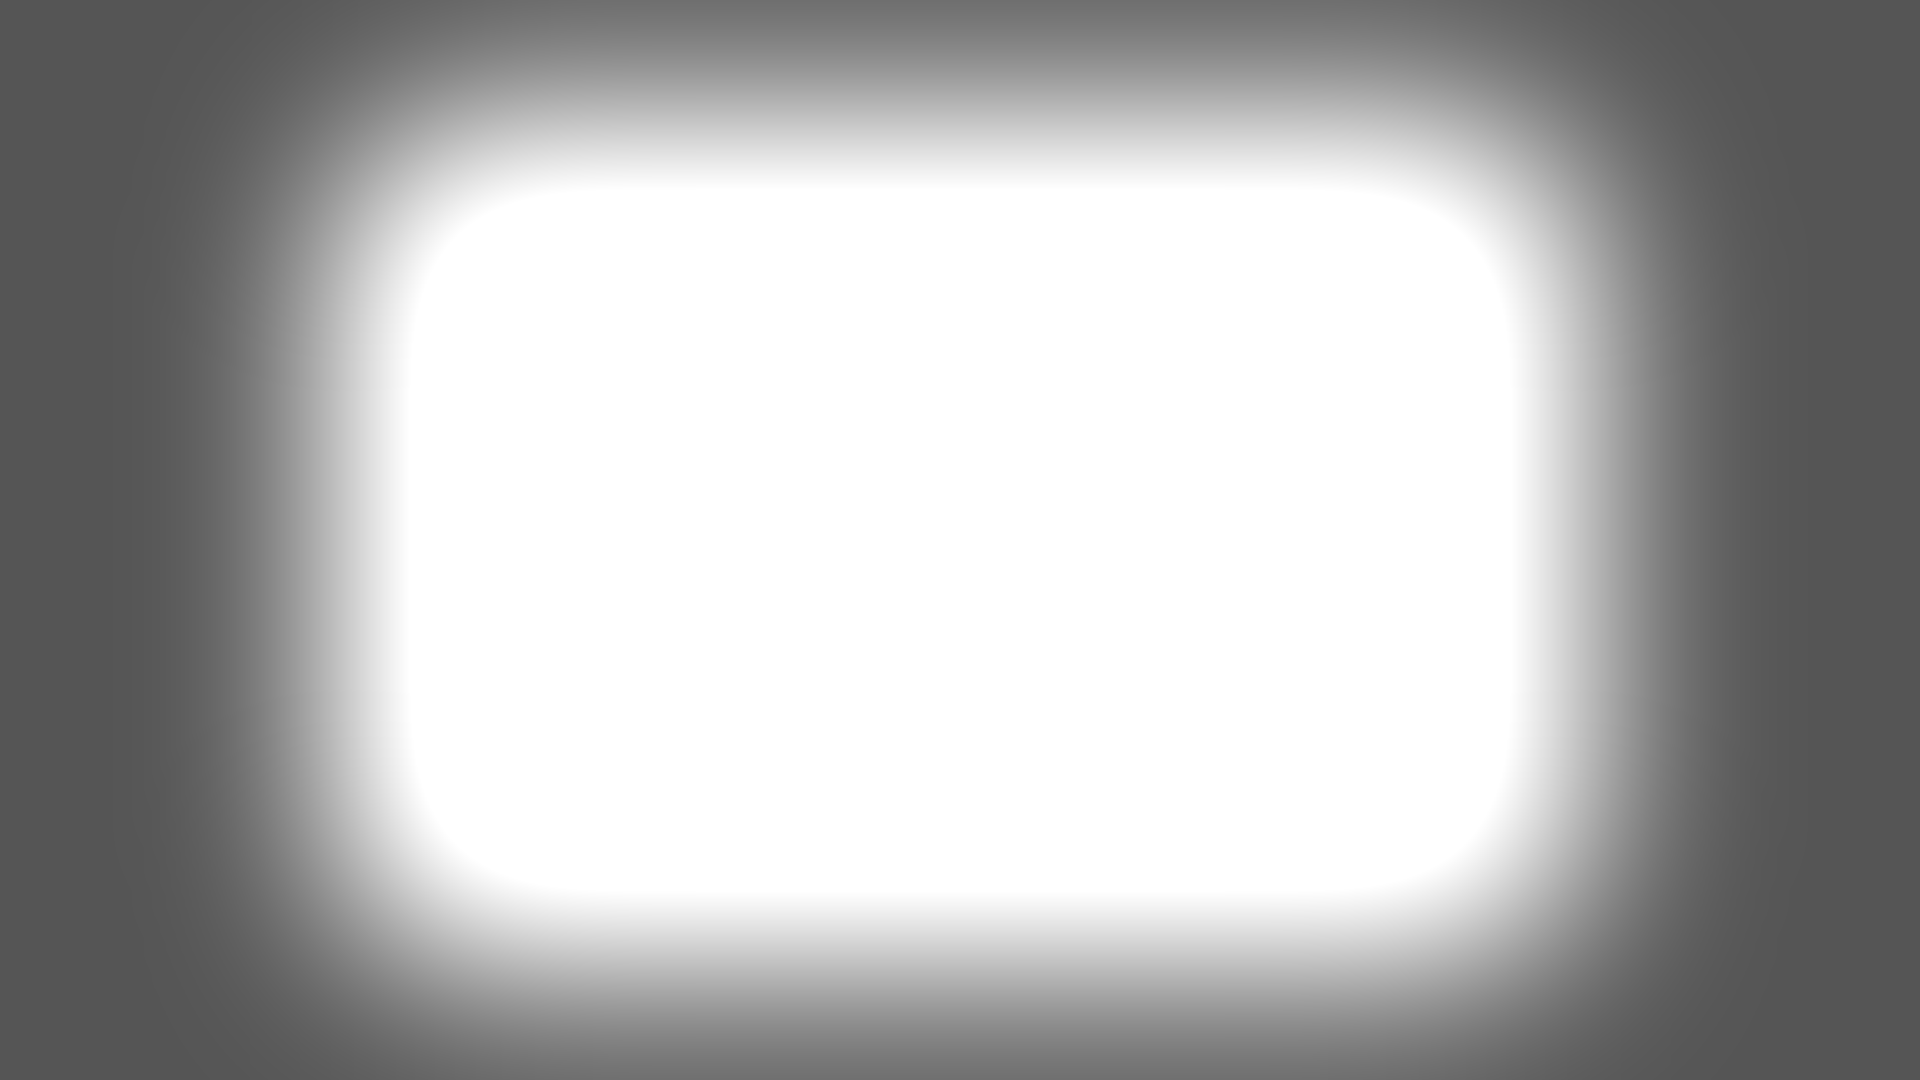
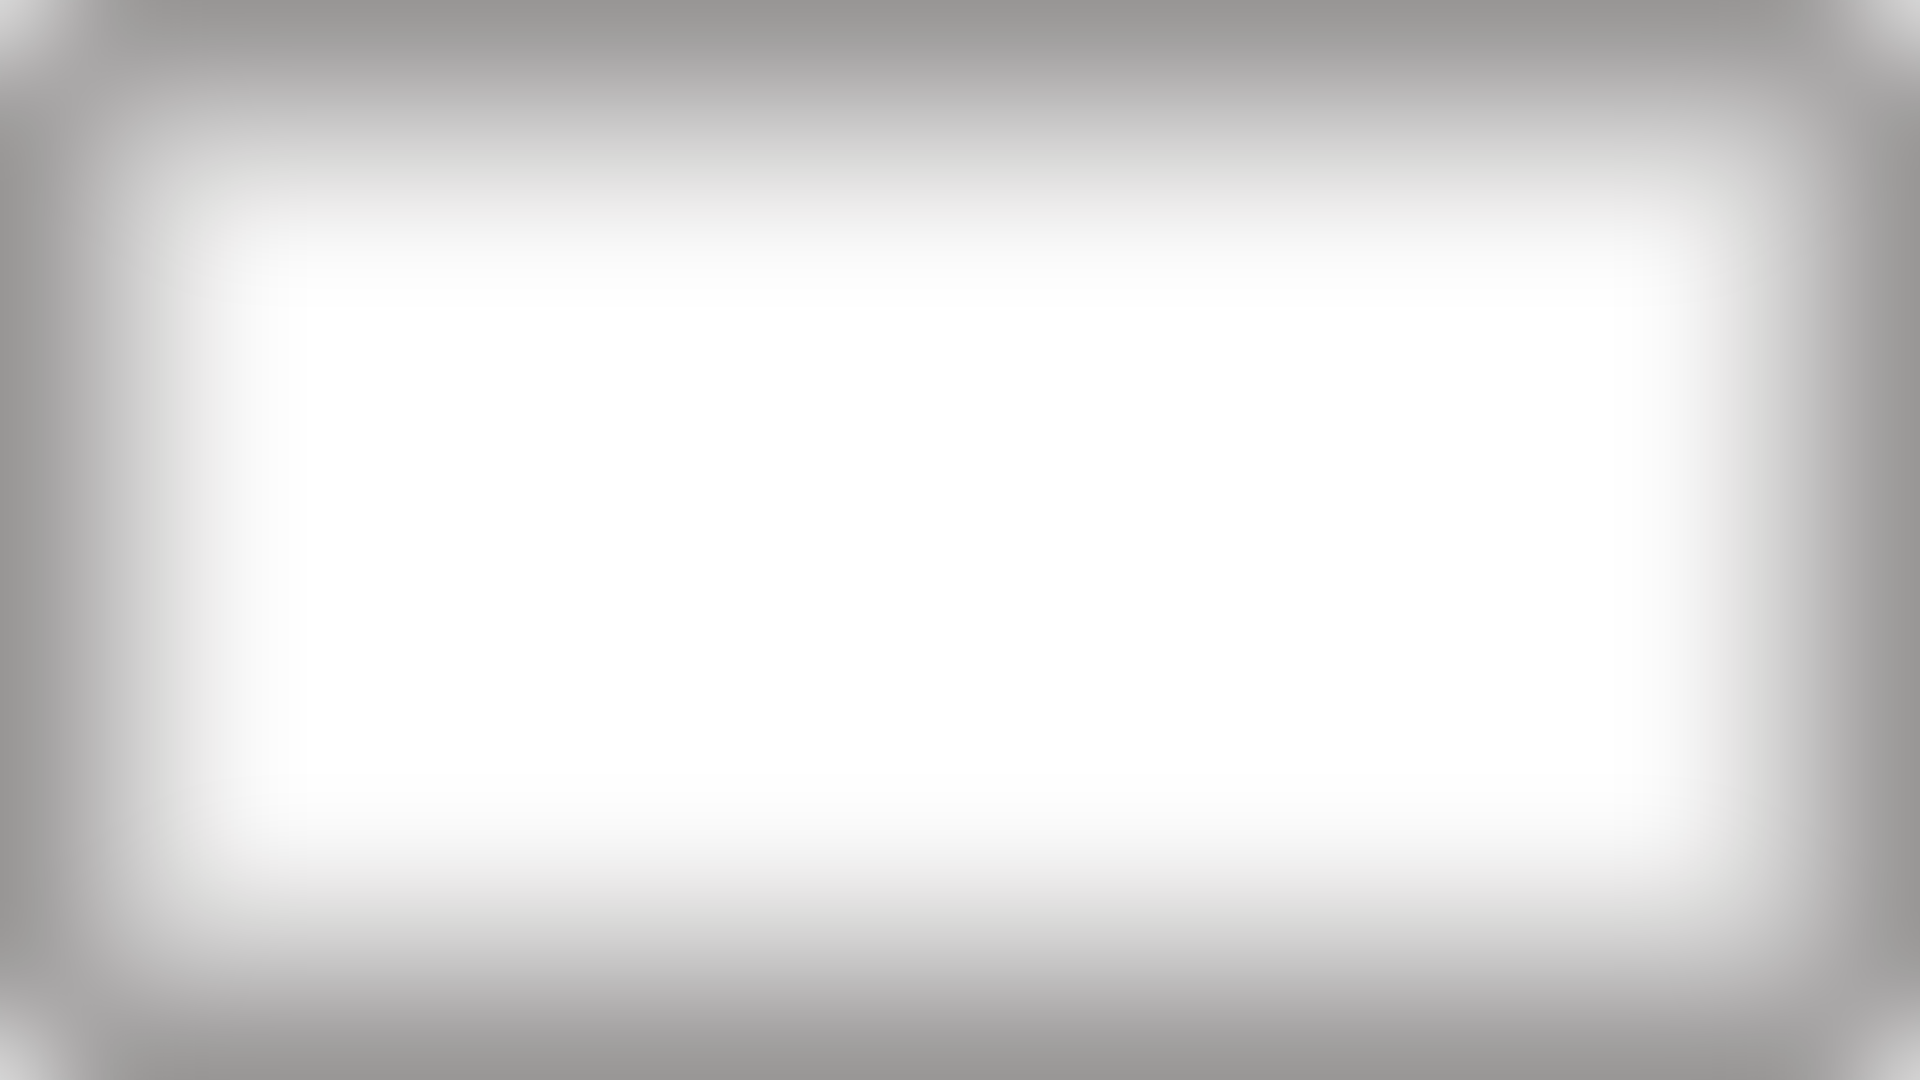
feat: polish runtime card and interface visuals

diff --git a/unity-app/Assets/Scripts/Game/Presentation/Runtime/MouthOfTruthGameView.cs b/unity-app/Assets/Scripts/Game/Presentation/Runtime/MouthOfTruthGameView.cs
@@ -48,6 +48,7 @@ namespace MouthOfTruth.Game.Presentation.Runtime
         private Button mTryAgainButton;
         private Button mBackToTitleButton;
         private Sprite mCardBackSprite;
+        private Sprite mCardFrontSprite;
         private Sprite mButtonFrameSprite;
         private Sprite mHandCursorSprite;
         private Sprite mVerdictTrueSprite;
@@ -116,7 +117,7 @@ namespace MouthOfTruth.Game.Presentation.Runtime
             setObjectActive(mTryAgainButton, false);
             setObjectActive(mBackToTitleButton, false);
             setCardsVisible(false);
-            mPromptText.text = "START GAME";
+            mPromptText.text = string.Empty;
             mStatusText.text = "손으로 START GAME을 선택하거나 마우스로 클릭하세요.";
             mAnswerTimerText.text = string.Empty;
             mLastAudibleHoveredCardSlot = null;
@@ -210,7 +211,7 @@ namespace MouthOfTruth.Game.Presentation.Runtime
                         Vector3.one * Mathf.Lerp(1.0f, 1.22f, easedProgress);
                 });
 
-            selectedCardView.SetFront(questionDefinition.Text);
+            selectedCardView.SetFront(mCardFrontSprite, questionDefinition.Text);
             mQuestionText.text = questionDefinition.Text;
             setObjectActive(mQuestionPanelImage, true);
             setObjectActive(mQuestionText, true);
@@ -546,6 +547,9 @@ namespace MouthOfTruth.Game.Presentation.Runtime
             mCardBackSprite =
                 await RuntimeSpriteLoader.LoadSpriteAsync(MouthOfTruthAssetCatalog.QuestionCardBackPath)
                 ?? RuntimeSpriteLoader.CreateSolidSprite(new Color(0.43f, 0.63f, 0.95f, 1.0f));
+            mCardFrontSprite =
+                await RuntimeSpriteLoader.LoadSpriteAsync(MouthOfTruthAssetCatalog.QuestionCardFrontPath)
+                ?? RuntimeSpriteLoader.CreateSolidSprite(new Color(0.96f, 0.93f, 0.88f, 1.0f));
             mButtonFrameSprite =
                 await RuntimeSpriteLoader.LoadSpriteAsync(MouthOfTruthAssetCatalog.PrimaryButtonFramePath)
                 ?? RuntimeSpriteLoader.CreateSolidSprite(new Color(0.38f, 0.21f, 0.11f, 1.0f));
@@ -638,10 +642,19 @@ namespace MouthOfTruth.Game.Presentation.Runtime
             mStatusPanelImage.type = Image.Type.Sliced;
             mResultPanelImage.sprite = mResultPanelSprite;
             mResultPanelImage.type = Image.Type.Sliced;
+            if (mAnswerInputField?.image != null)
+            {
+                mAnswerInputField.image.sprite = mStatusPanelSprite;
+                mAnswerInputField.image.type = Image.Type.Sliced;
+                mAnswerInputField.image.color = new Color(1.0f, 1.0f, 1.0f, 0.96f);
+            }
 
             mStartButton.image.sprite = mButtonFrameSprite;
             mTryAgainButton.image.sprite = mButtonFrameSprite;
             mBackToTitleButton.image.sprite = mButtonFrameSprite;
+            mStartButton.image.type = Image.Type.Sliced;
+            mTryAgainButton.image.type = Image.Type.Sliced;
+            mBackToTitleButton.image.type = Image.Type.Sliced;
 
             foreach (KeyValuePair<EQuestionCardSlot, QuestionCardView> pair in mCardViews)
             {
@@ -1048,6 +1061,7 @@ namespace MouthOfTruth.Game.Presentation.Runtime
             text.fontStyle = fontStyle;
             text.horizontalOverflow = HorizontalWrapMode.Wrap;
             text.verticalOverflow = VerticalWrapMode.Overflow;
+            addTextShadow(textObject);
             return text;
         }
 
@@ -1062,9 +1076,10 @@ namespace MouthOfTruth.Game.Presentation.Runtime
             rectTransform.sizeDelta = new Vector2(920.0f, 96.0f);
 
             Image backgroundImage = inputFieldObject.AddComponent<Image>();
-            backgroundImage.color = new Color(0.07f, 0.05f, 0.04f, 0.78f);
+            backgroundImage.color = Color.white;
 
             InputField inputField = inputFieldObject.AddComponent<InputField>();
+            inputField.transition = Selectable.Transition.None;
 
             Text placeholderText = createText(
                 "Placeholder",
@@ -1116,9 +1131,10 @@ namespace MouthOfTruth.Game.Presentation.Runtime
             rectTransform.sizeDelta = sizeDelta;
 
             Image buttonImage = buttonObject.AddComponent<Image>();
-            buttonImage.color = new Color(0.42f, 0.18f, 0.10f, 0.95f);
+            buttonImage.color = Color.white;
 
             Button button = buttonObject.AddComponent<Button>();
+            button.transition = Selectable.Transition.None;
             button.onClick.AddListener(
                 () =>
                 {
@@ -1174,8 +1190,18 @@ namespace MouthOfTruth.Game.Presentation.Runtime
             if (button.image != null)
             {
                 button.image.color = Color.Lerp(
-                    new Color(0.42f, 0.18f, 0.10f, 0.95f),
-                    new Color(0.74f, 0.54f, 0.26f, 1.0f),
+                    new Color(0.88f, 0.80f, 0.66f, 0.94f),
+                    new Color(1.0f, 0.92f, 0.72f, 1.0f),
+                    effectiveHoverProgress);
+            }
+
+            Text label = button.GetComponentInChildren<Text>();
+
+            if (label != null)
+            {
+                label.color = Color.Lerp(
+                    new Color(0.88f, 0.84f, 0.76f, 1.0f),
+                    new Color(1.0f, 0.97f, 0.84f, 1.0f),
                     effectiveHoverProgress);
             }
         }
@@ -1270,6 +1296,13 @@ namespace MouthOfTruth.Game.Presentation.Runtime
             };
 
             playInterfaceCue(verdictClip, 0.95f);
+        }
+
+        private void addTextShadow(GameObject textObject)
+        {
+            Shadow shadow = textObject.AddComponent<Shadow>();
+            shadow.effectColor = new Color(0.05f, 0.03f, 0.02f, 0.92f);
+            shadow.effectDistance = new Vector2(2.0f, -2.0f);
         }
     }
 }

diff --git a/unity-app/Assets/Scripts/Game/Presentation/Runtime/RuntimeSpriteLoader.cs b/unity-app/Assets/Scripts/Game/Presentation/Runtime/RuntimeSpriteLoader.cs
@@ -33,7 +33,10 @@ namespace MouthOfTruth.Game.Presentation.Runtime
                 texture,
                 new Rect(0.0f, 0.0f, texture.width, texture.height),
                 new Vector2(0.5f, 0.5f),
-                100.0f);
+                100.0f,
+                0u,
+                SpriteMeshType.FullRect,
+                getImplicitBorder(filePath, texture.width, texture.height));
         }
 
         public static Sprite CreateSolidSprite(Color color, int size = 8)
@@ -54,6 +57,58 @@ namespace MouthOfTruth.Game.Presentation.Runtime
                 new Rect(0.0f, 0.0f, size, size),
                 new Vector2(0.5f, 0.5f),
                 100.0f);
+        }
+
+        private static Vector4 getImplicitBorder(string filePath, int width, int height)
+        {
+            string normalizedFilePath = (filePath ?? string.Empty)
+                .Replace('\\', '/')
+                .ToLowerInvariant();
+
+            if (normalizedFilePath.Contains("/ui/panel_"))
+            {
+                return createBorder(width, height, 0.045f, 0.22f, 18.0f, 18.0f);
+            }
+
+            if (normalizedFilePath.Contains("button_frame_primary"))
+            {
+                return createBorder(width, height, 0.12f, 0.32f, 18.0f, 18.0f);
+            }
+
+            if (normalizedFilePath.Contains("question_card_back")
+                || normalizedFilePath.Contains("question_card_front"))
+            {
+                return createBorder(width, height, 0.11f, 0.08f, 24.0f, 24.0f);
+            }
+
+            if (normalizedFilePath.Contains("card_selection_glow"))
+            {
+                return createBorder(width, height, 0.18f, 0.18f, 24.0f, 24.0f);
+            }
+
+            if (normalizedFilePath.Contains("card_selection_progress_fill"))
+            {
+                return createBorder(width, height, 0.06f, 0.18f, 12.0f, 12.0f);
+            }
+
+            return Vector4.zero;
+        }
+
+        private static Vector4 createBorder(
+            int width,
+            int height,
+            float horizontalRatio,
+            float verticalRatio,
+            float minimumHorizontalBorderPixels,
+            float minimumVerticalBorderPixels)
+        {
+            float horizontalBorderPixels = Mathf.Max(minimumHorizontalBorderPixels, width * horizontalRatio);
+            float verticalBorderPixels = Mathf.Max(minimumVerticalBorderPixels, height * verticalRatio);
+            return new Vector4(
+                horizontalBorderPixels,
+                verticalBorderPixels,
+                horizontalBorderPixels,
+                verticalBorderPixels);
         }
     }
 }

diff --git a/unity-app/Assets/Scripts/Game/Presentation/Runtime/QuestionCardView.cs b/unity-app/Assets/Scripts/Game/Presentation/Runtime/QuestionCardView.cs
@@ -87,9 +87,12 @@ namespace MouthOfTruth.Game.Presentation.Runtime
             mQuestionText.horizontalOverflow = HorizontalWrapMode.Wrap;
             mQuestionText.verticalOverflow = VerticalWrapMode.Overflow;
             mQuestionText.color = new Color(0.14f, 0.09f, 0.04f, 1.0f);
-            mQuestionText.fontSize = 26;
+            mQuestionText.fontSize = 28;
             mQuestionText.raycastTarget = false;
             mQuestionText.text = string.Empty;
+            Shadow questionTextShadow = textObject.AddComponent<Shadow>();
+            questionTextShadow.effectColor = new Color(0.98f, 0.95f, 0.89f, 0.38f);
+            questionTextShadow.effectDistance = new Vector2(1.0f, -1.0f);
         }
 
         public void SetBack(Sprite cardBackSprite)
@@ -108,8 +111,13 @@ namespace MouthOfTruth.Game.Presentation.Runtime
             mProgressImage.type = Image.Type.Sliced;
         }
 
-        public void SetFront(string questionText)
+        public void SetFront(Sprite cardFrontSprite, string questionText)
         {
+            if (cardFrontSprite != null)
+            {
+                mCardImage.sprite = cardFrontSprite;
+            }
+
             mCardImage.color = new Color(0.96f, 0.93f, 0.88f, 1.0f);
             mQuestionText.enabled = true;
             mQuestionText.text = questionText;

diff --git a/unity-app/Assets/Scripts/Game/Presentation/Runtime/MouthOfTruthAssetCatalog.cs b/unity-app/Assets/Scripts/Game/Presentation/Runtime/MouthOfTruthAssetCatalog.cs
@@ -40,7 +40,10 @@ namespace MouthOfTruth.Game.Presentation.Runtime
             GetStreamingArtPath("environment/floor_red_carpet_runner.jpeg");
 
         public static string QuestionCardBackPath =>
-            GetStreamingArtPath("cards/question_card_back.jpeg");
+            GetStreamingArtPath("cards/question_card_back.png");
+
+        public static string QuestionCardFrontPath =>
+            GetStreamingArtPath("cards/question_card_front.png");
 
         public static string TruthMouthFacePath =>
             GetStreamingArtPath("mouth/truth_mouth_face.png");

diff --git a/unity-app/Assets/Editor/ValidateProductReadinessEditor.cs b/unity-app/Assets/Editor/ValidateProductReadinessEditor.cs
@@ -67,6 +67,7 @@ namespace MouthOfTruth.Editor
                 MouthOfTruthAssetCatalog.StatusPanelFramePath,
                 MouthOfTruthAssetCatalog.ResultPanelFramePath,
                 MouthOfTruthAssetCatalog.QuestionCardBackPath,
+                MouthOfTruthAssetCatalog.QuestionCardFrontPath,
                 MouthOfTruthAssetCatalog.TruthMouthFacePath,
                 MouthOfTruthAssetCatalog.TrueVerdictPath,
                 MouthOfTruthAssetCatalog.FalseVerdictPath,
